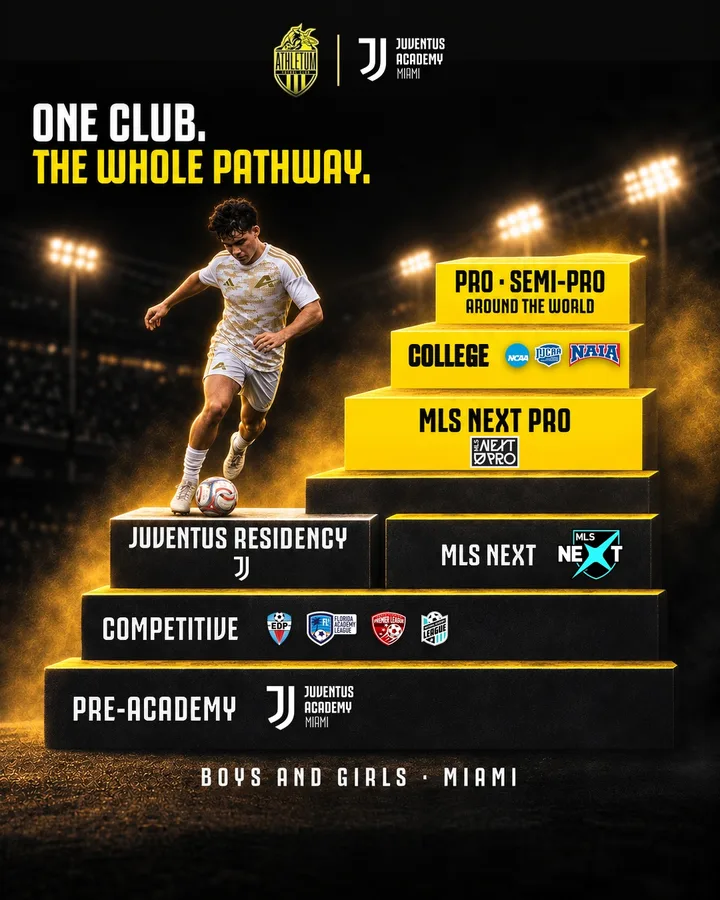
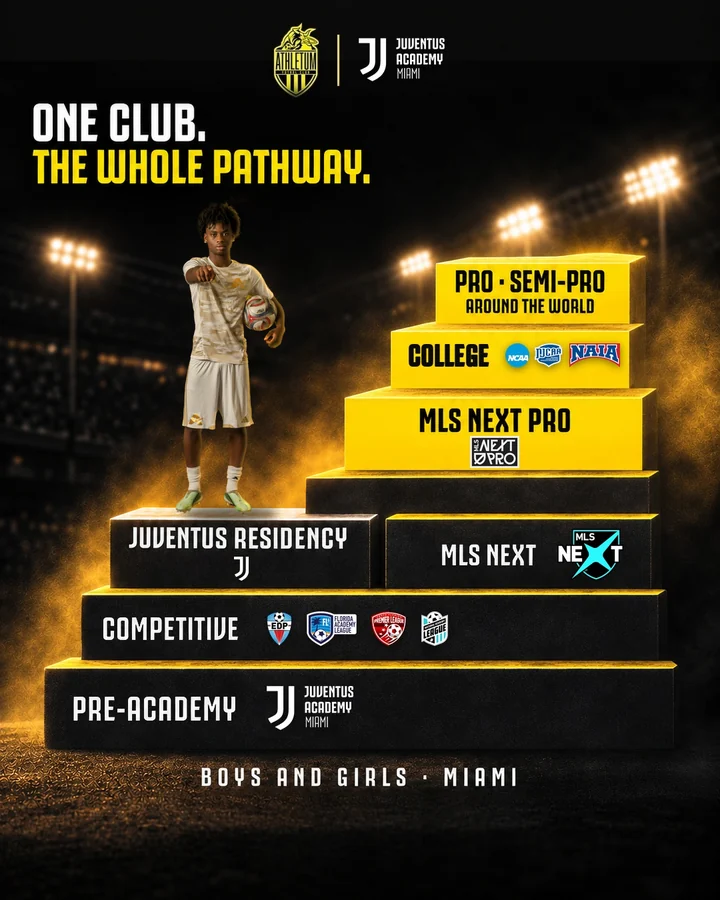
Maqueta 12-11: HERO = post de lanzamiento de @athletum_fc, Pathway A/B con jugador real del Media Day, boton Follow us on Instagram

Changed region(s): [[0.1833, 0.2178, 0.4583, 0.5911]]

diff --git a/index.html b/index.html
@@ -95,6 +95,7 @@ details p{margin:10px 0 0;color:#cfcfcf;font-size:14px}
 .pie{padding:24px;font-size:12.5px;color:#9a9a9a;display:flex;flex-wrap:wrap;gap:16px;justify-content:space-between;border-top:1px solid #222}
 .fija{position:sticky;bottom:0;background:rgba(11,11,11,.96);padding:10px 16px;display:flex;justify-content:center;border-top:1px solid #333;z-index:20}
 .fija .btn{width:100%;text-align:center}
+.btn-ig{display:block;width:max-content;max-width:100%;margin:22px auto 0;text-align:center;background:linear-gradient(90deg,#833ab4,#e1306c,#f77737);color:#fff}
 @media(min-width:900px){.fija{display:none}}
 
 /* ---------- notas de revisión ---------- */
@@ -166,12 +167,12 @@ body.sin-notas .nota{display:none}
       <div class="nota" data-k="hero"><span class="num">1</span><div class="es"><b>Arriba de la página.</b>
         <ul>
           <li>Hoy hay 11 botones con dos textos ("Apply now" y "Register now") y colores celestes. Queda <b>un solo botón amarillo, "Apply for a tryout"</b>, arriba, después de las fechas, al final y fijo abajo en el celular. Todos llevan al mismo registro de PlayMetrics.</li>
-          <li>La imagen es la del anuncio principal de la campaña, con la camiseta blanca y dorada 2026-27. Cuando estén las fotos nuevas se cambia por una foto real, sin texto encima.</li>
+          <li><b>Actualizado 12-11:</b> la imagen es el post de lanzamiento de @athletum_fc ("Your next level starts here"), con tres jugadores reales del Media Day y la camiseta 2026-27. Así la web y el Instagram nuevo dicen lo mismo.</li>
           <li>Si el registro al tryout es gratis, se propone decirlo aquí ("Apply for a free tryout").</li>
         </ul>
-      </div><div class="en"><b>Top of the page.</b><ul><li>Today there are 11 buttons with two labels ("Apply now" and "Register now") in light blue. There will be <b>a single yellow button, "Apply for a tryout"</b>: at the top, after the dates, at the end and fixed at the bottom on mobile. All of them go to the same PlayMetrics registration.</li><li>The image is the main ad of the campaign, with the white and gold 2026-27 kit. When the new photos arrive it will be replaced by a real photo with no text on it.</li><li>If the tryout registration is free, the proposal is to say so here ("Apply for a free tryout").</li></ul></div></div>
+      </div><div class="en"><b>Top of the page.</b><ul><li>Today there are 11 buttons with two labels ("Apply now" and "Register now") in light blue. There will be <b>a single yellow button, "Apply for a tryout"</b>: at the top, after the dates, at the end and fixed at the bottom on mobile. All of them go to the same PlayMetrics registration.</li><li><b>Updated Nov 12:</b> the image is the launch post of @athletum_fc ("Your next level starts here"), with three real players from Media Day in the 2026-27 kit. This way the website and the new Instagram say the same thing.</li><li>If the tryout registration is free, the proposal is to say so here ("Apply for a free tryout").</li></ul></div></div>
     </div>
-    <img src="assets/hero.webp" alt="Athletum players in the 2026-27 white and gold kit" width="720" height="900" fetchpriority="high">
+    <img src="assets/hero.webp?v=1211" alt="Three Athletum players in the 2026-27 white and gold kit: Your next level starts here" width="720" height="900" fetchpriority="high">
   </div>
 
   <div class="cifras" id="s-cifras">
@@ -186,7 +187,7 @@ body.sin-notas .nota{display:none}
     <h2>One club. <em>The whole pathway.</em></h2>
     <p class="sub">From the Pre-Academy to MLS NEXT, and then on to college or the pros. Every player is placed at the level that fits them after the tryout.</p>
     <div class="pathway">
-      <img id="img-pw" src="assets/pathway_a.webp" alt="Athletum pathway: Pre-Academy, Competitive, MLS NEXT, College and Pro" width="720" height="900" loading="lazy">
+      <img id="img-pw" src="assets/pathway_a.webp?v=1211" alt="Athletum pathway: Pre-Academy, Competitive, MLS NEXT, College and Pro" width="720" height="900" loading="lazy">
       <ol class="pasos">
         <li><div><b>Pre-Academy</b><span>Juventus Academy Miami methodology for the youngest players.</span></div></li>
         <li><div><b>Competitive</b><span>League play in EDP Florida, Florida Academy League, South Florida Premier League and National Academy League.</span>
@@ -196,7 +197,7 @@ body.sin-notas .nota{display:none}
         <li><div><b>College · Pro</b><span>College soccer (NCAA, NJCAA, NAIA) and pro or semi-pro soccer around the world.</span></div></li>
       </ol>
     </div>
-    <div class="nota" data-k="pathway"><span class="num">3</span><div class="es"><b>Pathway (nuevo).</b> Explica el camino completo del club. Con los botones "Opción A / Opción B" de la barra de arriba se ven las dos versiones de la imagen (escalera o arco, siguiendo el dibujo enviado); la que se elija va también en la pauta. Los pasos de la lista son los mismos de la imagen, con Juventus Residency al nivel de MLS NEXT. Falta confirmar cómo describir MLS NEXT Pro y Residency. UPSL no aparece porque es de adultos.</div><div class="en"><b>Pathway (new).</b> Shows the club's full pathway. The "Option A / Option B" buttons in the top bar switch between the two versions of the image (stairs or arch, following the drawing that was sent); the one chosen will also be used in the ads. The steps in the list match the image, with Juventus Residency at the MLS NEXT level. Still to confirm: how to describe MLS NEXT Pro and Residency. UPSL is not shown because it is an adult league.</div></div>
+    <div class="nota" data-k="pathway"><span class="num">3</span><div class="es"><b>Pathway (nuevo).</b> Explica el camino completo del club. Con los botones "Opción A / Opción B" de la barra de arriba se ven las dos versiones de la imagen (escalera o arco, siguiendo el dibujo enviado); la que se elija va también en la pauta. Los pasos de la lista son los mismos de la imagen, con Juventus Residency al nivel de MLS NEXT. Falta confirmar cómo describir MLS NEXT Pro y Residency. UPSL no aparece porque es de adultos. <b>Actualizado 12-11:</b> en las dos opciones el jugador es ahora una foto real del Media Day 2026-27; la persona no está retocada con inteligencia artificial.</div><div class="en"><b>Pathway (new).</b> Shows the club's full pathway. The "Option A / Option B" buttons in the top bar switch between the two versions of the image (stairs or arch, following the drawing that was sent); the one chosen will also be used in the ads. The steps in the list match the image, with Juventus Residency at the MLS NEXT level. Still to confirm: how to describe MLS NEXT Pro and Residency. UPSL is not shown because it is an adult league. <b>Updated Nov 12:</b> in both options the player is now a real photo from the 2026-27 Media Day; the person is not retouched with artificial intelligence.</div></div>
   </section>
 
   <section class="claro" id="s-como">
@@ -206,7 +207,8 @@ body.sin-notas .nota{display:none}
       <li><div><b>Get your date</b><span>You will receive a confirmation email with your age group's date, time and location.</span></div></li>
       <li><div><b>Receive your invitation</b><span>After the tryout, allow a few days to a week to receive your invitation letter.</span></div></li>
     </ol>
-    <div class="nota" data-k="como"><span class="num">4</span><div class="es"><b>Cómo funciona.</b> Son los mismos 3 pasos de la página actual, con textos más cortos. "Follow us on Instagram" vuelve cuando la cuenta nueva esté lista.</div><div class="en"><b>How it works.</b> Same 3 steps as the current page, with shorter text. "Follow us on Instagram" comes back once the new account is ready.</div></div>
+    <a class="btn btn-ig" href="https://www.instagram.com/athletum_fc/" target="_blank" rel="noopener">Follow us on Instagram · @athletum_fc</a>
+    <div class="nota" data-k="como"><span class="num">4</span><div class="es"><b>Cómo funciona.</b> Son los mismos 3 pasos de la página actual, con textos más cortos. <b>Actualizado 12-11:</b> vuelve "Follow us on Instagram" con la cuenta nueva, @athletum_fc, como botón visible también en el celular. Hoy, en la web en vivo, el ícono de Instagram de la cabecera no se ve en el celular, y mostrarlo ahí descuadra la cabecera; por eso se propone este botón.</div><div class="en"><b>How it works.</b> Same 3 steps as the current page, with shorter text. <b>Updated Nov 12:</b> "Follow us on Instagram" comes back with the new account, @athletum_fc, as a button that is also visible on mobile. Today, on the live website, the Instagram icon in the header is not shown on mobile, and showing it there breaks the header layout; that is why this button is proposed.</div></div>
   </section>
 
   <section id="s-fechas">
@@ -270,16 +272,16 @@ body.sin-notas .nota{display:none}
   <div class="pie">
     <span>© 2026 Athletum FC</span>
     <span>(786) 459-3464 · info@athletumfc.com</span>
-    <span>Instagram · TikTok · YouTube</span>
+    <span>Instagram @athletum_fc · TikTok · YouTube</span>
   </div>
   <div style="padding:0 24px 24px"><div class="nota" data-k="general"><span class="num">10</span><div class="es"><b>Lo que no se ve en la maqueta.</b>
     <ul>
       <li>Menú: "MSL NEXT ID CAMP" se corrige a <b>"MLS NEXT"</b>.</li>
-      <li>Pie: los logos de EDP Florida y South Florida Premier League van a sus propias webs (hoy van a floridaacademyleague.com), y el enlace de Instagram pasa a la cuenta nueva.</li>
+      <li>Pie: los logos de EDP Florida y South Florida Premier League van a sus propias webs (hoy van a floridaacademyleague.com), y el enlace de Instagram pasa a la cuenta nueva (<b>esto ya se hizo en la web en vivo el 12-11</b>).</li>
       <li>Velocidad: hoy la imagen principal tarda 6,9 s en verse en el celular. Se quitan los bloques ocultos y las imágenes pesadas; la meta es menos de 2,5 s.</li>
       <li>Medición: píxel de Meta en el botón y enlaces con origen, para saber cuántos registros vienen de la pauta, de la bio y de la web.</li>
     </ul>
-  </div><div class="en"><b>What the mockup does not show.</b><ul><li>Menu: "MSL NEXT ID CAMP" is corrected to <b>"MLS NEXT"</b>.</li><li>Footer: the EDP Florida and South Florida Premier League logos link to their own websites (today they go to floridaacademyleague.com), and the Instagram link goes to the new account.</li><li>Speed: today the main image takes 6.9 s to appear on mobile. Hidden blocks and heavy images are removed; the goal is under 2.5 s.</li><li>Tracking: Meta pixel on the button and tagged links, to know how many registrations come from the ads, the Instagram bio and the website.</li></ul></div></div></div>
+  </div><div class="en"><b>What the mockup does not show.</b><ul><li>Menu: "MSL NEXT ID CAMP" is corrected to <b>"MLS NEXT"</b>.</li><li>Footer: the EDP Florida and South Florida Premier League logos link to their own websites (today they go to floridaacademyleague.com), and the Instagram link goes to the new account (<b>already done on the live website on Nov 12</b>).</li><li>Speed: today the main image takes 6.9 s to appear on mobile. Hidden blocks and heavy images are removed; the goal is under 2.5 s.</li><li>Tracking: Meta pixel on the button and tagged links, to know how many registrations come from the ads, the Instagram bio and the website.</li></ul></div></div></div>
 
   <div class="fija"><a class="btn" href="#apply">Apply for a tryout</a></div>
 </main>
@@ -390,7 +392,7 @@ const pintarBarra=()=>{bn.textContent=bn.getAttribute('aria-pressed')==='true'?t
 function idioma(l){L=l;document.documentElement.dataset.l=l;document.documentElement.lang=l;try{localStorage.setItem(LSL,l)}catch(e){}pintores.forEach(f=>f());pintarBarra()}
 bl.onclick=()=>idioma(L==='en'?'es':'en');
 bn.onclick=()=>{const on=bn.getAttribute('aria-pressed')!=='true';bn.setAttribute('aria-pressed',on);document.body.classList.toggle('sin-notas',!on);pintarBarra()};
-document.querySelectorAll('.b-pw').forEach(b=>b.onclick=()=>{document.querySelectorAll('.b-pw').forEach(x=>x.setAttribute('aria-pressed',x===b));document.getElementById('img-pw').src='assets/pathway_'+b.dataset.pw+'.webp'});
+document.querySelectorAll('.b-pw').forEach(b=>b.onclick=()=>{document.querySelectorAll('.b-pw').forEach(x=>x.setAttribute('aria-pressed',x===b));document.getElementById('img-pw').src='assets/pathway_'+b.dataset.pw+'.webp?v=1211'});
 document.querySelectorAll('a[href="#apply"]').forEach(a=>a.addEventListener('click',e=>{if(a.id!=='apply'){e.preventDefault();document.getElementById('s-hero').scrollIntoView()}}));
 idioma(new URLSearchParams(location.search).get('lang')==='en'?'en':L);
 
